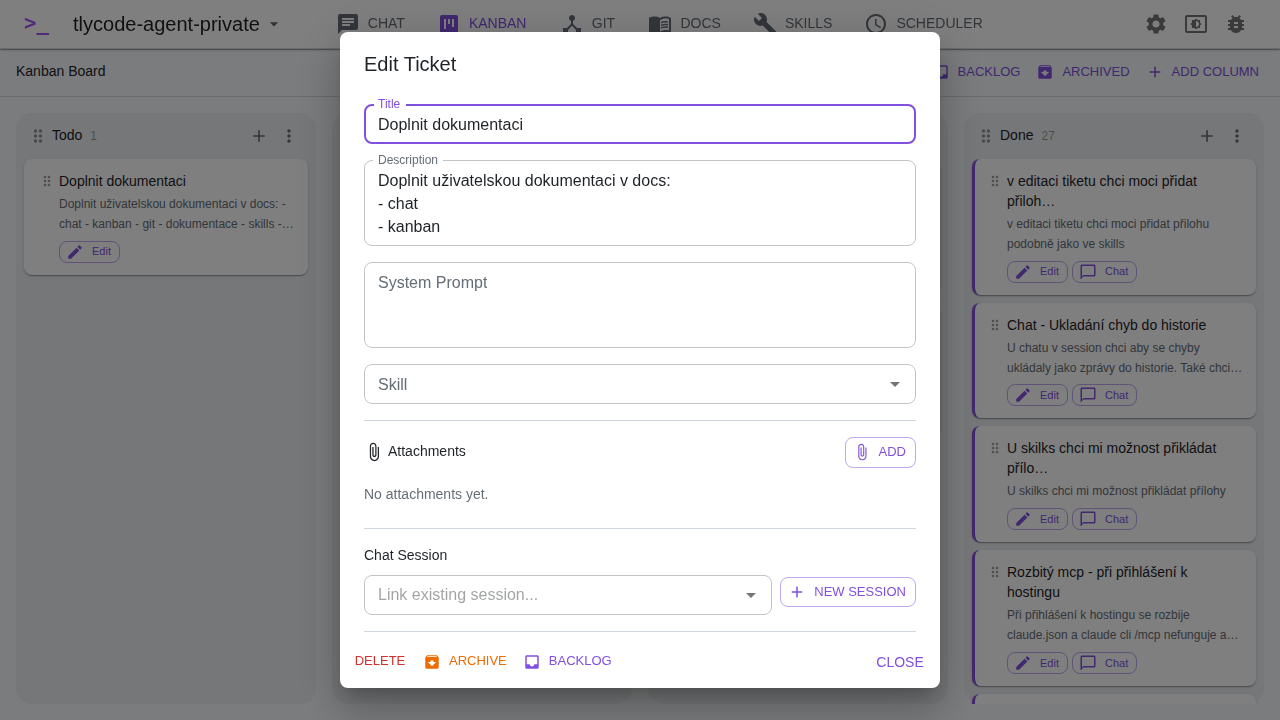
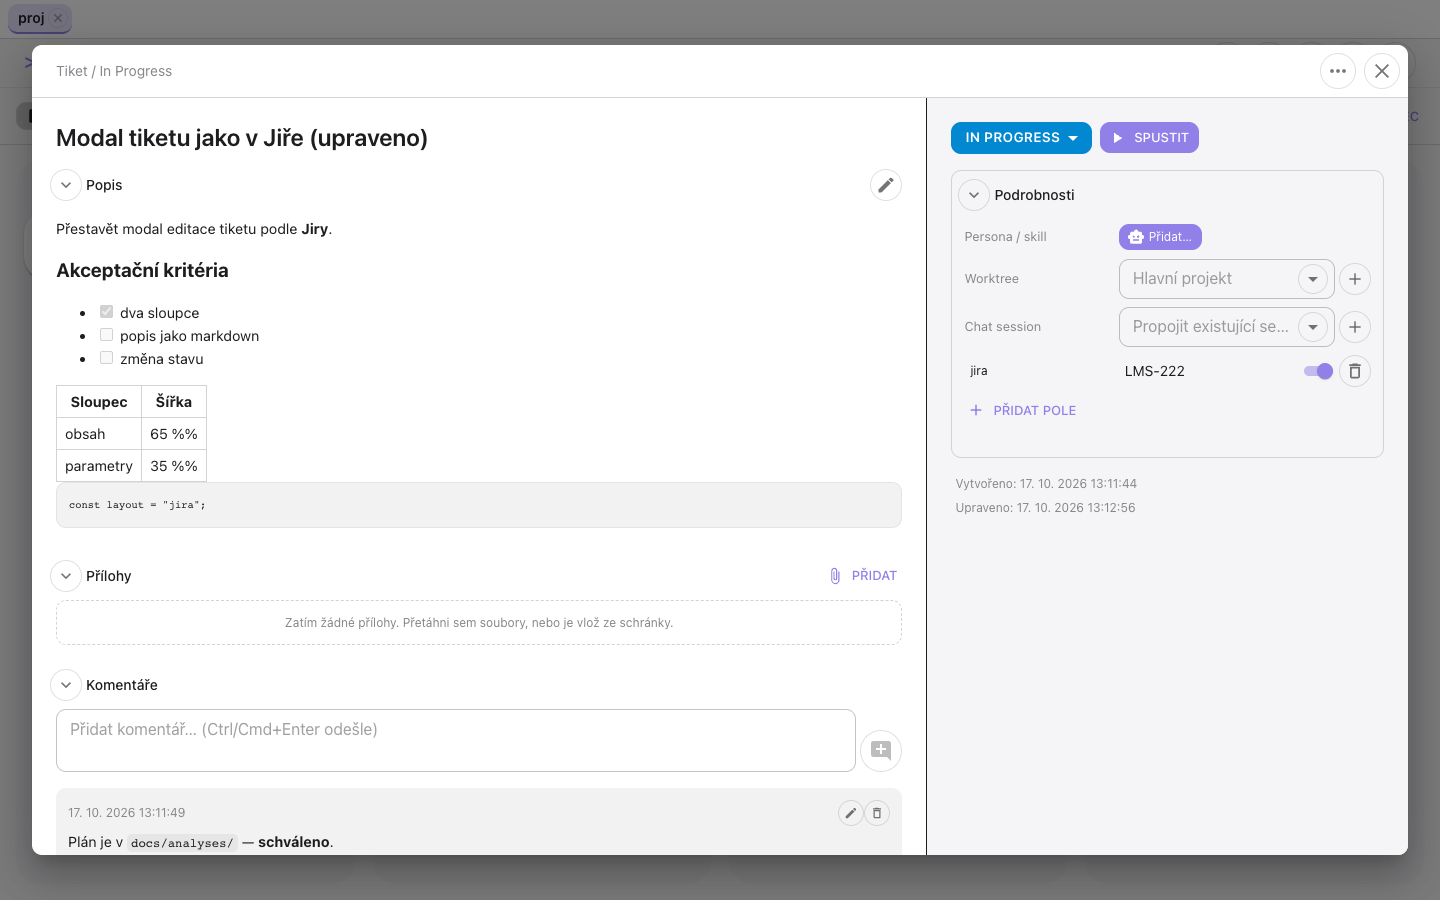
docs: sync user-docs from main

diff --git a/user-docs/kanban.md b/user-docs/kanban.md
@@ -4,6 +4,35 @@ The Kanban board helps you track tasks and organize your work.
 
 ![Kanban Board](./images/kanban-view.png)
 
+## Boards
+
+A project can have several boards — say one for features, one for bugs and one
+for the cloud edition. Each board has its own columns and tickets, its own
+**archive**, its own **flows** and its own **agent profile**. The **backlog** is
+shared by all boards of the project.
+
+- Pick the board in the selector at the left of the board toolbar. The last
+  board you looked at is remembered per project.
+- The ⋮ next to the selector creates a board (with the default columns, or with
+  the same column titles as the current board), renames it, moves it left or
+  right, or deletes it.
+- A board can only be deleted once it is empty — no tickets on it, in its
+  archive or in the backlog — and while none of its flows is running. The
+  project's last board cannot be deleted.
+- The first board in the list is the **default board**. Agents and integrations
+  that do not name a board work with it.
+
+Search looks through the board on screen.
+
+### Moving a ticket to another board
+
+On a card, open the move menu and choose **Move to board…**; in the ticket
+dialog it is in the ⋯ menu. Pick the board and the column. The ticket keeps its
+chat, comments, attachments and worktree. It leaves the flows of its old board;
+while a flow is working on it, the move is refused — wait for the turn to end
+or stop the flow. The target column's prompt runs with the **target** board's
+agent profile.
+
 ## Columns
 
 By default, three columns are created: **To Do**, **In Progress**, **Done**.
@@ -48,20 +77,44 @@ for instance) and writes that order onto the board.
 
 ![Ticket Dialog](./images/kanban-ticket-dialog.png)
 
-The ticket dialog lets you edit all ticket properties:
+The ticket dialog is laid out like a Jira issue: the ticket's content on the
+left, its status and parameters on the right. Changes save on their own — there
+is no Save button; whatever is still being typed is saved when the dialog
+closes.
 
-- **Title** — the ticket name
-- **Description** — detailed description of the task (markdown supported)
-- **System Prompt** — a custom system prompt that will be sent to Claude when running this ticket
-- **Skill** — attach a skill to use as context when running the ticket
-- **Custom fields** — metadata on the ticket, e.g. a Jira ticket number. Two kinds sit side by side:
-  - fields the project defines for every ticket (the `ticket_fields` project setting, see [Settings](./settings.md#kanban)), listed with their configured name; whether they reach the card is the project's switch
-  - fields you add here with **Add field**, which belong to this ticket alone: type a name and a value, flip the switch to put it on the card, and remove it again with the bin. The name is the field's identity, so renaming it carries the value along. After a save they are listed alphabetically by name.
+**Header** — the column the ticket is in, the **⋯** menu (*Move to backlog*,
+*Archive*, *Delete* — deleting asks for confirmation) and **✕** to close.
 
-  Fields computed from the linked session (see *Session chips* below) are not listed here — there is nothing to type in.
-- **Attachments** — upload file attachments to the ticket (stored as base64)
-- **Chat Session** — link to an existing chat session or create a new one
-- **Comments** — add comments to the ticket for discussion or notes
+**Left column** (scrolls on its own):
+
+- **Title** — shown as a heading; click it to edit, Enter confirms, Escape restores it.
+- **Description** — rendered as markdown, the same way the chat renders it (tables, code, mermaid diagrams). Click the text or the pencil to edit the raw markdown; **Done**, Escape or clicking away goes back to the preview.
+- **Attachments** — **Add** picks files; you can also drop files anywhere on the left column or paste them (e.g. a screenshot) from the clipboard.
+- **Comments** — at the very bottom: a box for a new comment (Ctrl/Cmd+Enter sends), then the comments, newest first, rendered as markdown.
+
+**Right column:**
+
+- **Status** — the ticket's column as a coloured dropdown (grey for the first column, green for the last, blue in between). Picking another column moves the ticket there, with the same column prompt as a move on the board. While the agent is responding in the linked session the move is refused.
+- **Run** — starts the ticket in a new chat session and opens it, see *Running a Ticket*.
+- **Open chat** — opens the linked chat session.
+- **Details** (collapsible; the dialog remembers whether it is collapsed) — one `label | value` row per parameter; an empty value shows a grey *Add…*, click it to fill it in:
+  - **Persona / skill** — attach a persona or a skill to use as context when running the ticket
+  - **Worktree** — the git worktree the ticket's session works in; **+** creates a new one
+  - **Chat session** — the linked session, or link an existing one / **+** create a new one
+  - **Custom fields** — metadata on the ticket, e.g. a Jira ticket number. Two kinds sit side by side:
+    - fields the project defines for every ticket (the `ticket_fields` project setting, see [Settings](./settings.md#kanban)), listed with their configured name; whether they reach the card is the project's switch
+    - fields you add here with **Add field**, which belong to this ticket alone: click the name and the value to fill them in, flip the switch to put it on the card, and remove it again with the bin. The name is the field's identity, so renaming it carries the value along. After a save they are listed alphabetically by name.
+
+    Fields computed from the linked session (see *Session chips* below) are not listed here — there is nothing to type in.
+- Below the panel: when the ticket was created and last updated, and whether it is in the backlog, archived, or has a worktree a flow created for it.
+
+On a narrow window the right column moves under the content and the whole
+dialog scrolls as one.
+
+**New ticket** — the same layout with the title and description open for
+typing. Attachments, comments and the chat session appear once the ticket
+exists. The status picks the column the ticket is created in. **Create** (or
+Ctrl/Cmd+Enter) creates it.
 
 ### Session chips
 
@@ -74,7 +127,7 @@ Both are off until the project defines a ticket field whose source is the sessio
 
 ### Running a Ticket
 
-When a ticket has a description, system prompt, or skill, you can run it directly — this creates a new chat session with the ticket's context and sends the description as a prompt to Claude.
+When a ticket has a description or system prompt, you can run it directly — **Run** in the ticket dialog (or the `run_ticket` MCP tool) creates a new chat session linked to the ticket, sends the description as the first prompt with the ticket's persona or skill, and opens the chat. Run is off while the agent is responding in the ticket's linked session.
 
 ## Search
 
@@ -109,9 +162,13 @@ card at the top of the column you choose.
 
 Click the **Backlog** button to manage tickets that aren't on the board yet. Backlog supports search and pagination. Tickets can be moved between backlog and the board.
 
+The backlog is shared by every board of the project: it lists the backlog tickets of all of them, each with its board and column. **Move to board** asks which board and column the ticket goes to (with a single board it goes straight back to the column it came from).
+
 ## Archive
 
 Click **Archived** to view and restore archived tickets. Archive also supports search and pagination. When a ticket is archived, its linked chat session is also archived.
+
+The archive belongs to the board: it shows the archived tickets of the board on screen, and restoring puts a ticket back into the column it came from.
 
 ## Bulk actions
 
@@ -144,7 +201,7 @@ ticket does (see [Flow Manager](#flow-manager)).
 ## Flow Manager
 
 Click **Flow manager** on the board toolbar to run a batch of tickets in a
-planned order.
+planned order. Flows belong to the board on screen and take only its tickets.
 
 A **flow** is a list of named **steps**. Drag tickets from the board panel into
 a step, reorder them inside it, or drag them to another step. Steps run in
@@ -263,7 +320,16 @@ An **agent profile** is a named set of prompts: the first-message prompt, the
 prompt appended to every message, the prompt that runs before a session is
 deleted, and a prompt per board column. Pick one from the selector at the top
 and its values are written into the project's settings, so the whole project
-switches at once. The built-in **Default** profile is read only; make your own
+switches at once.
+
+Each board can also run under a profile of its own. The **Profile of board …**
+selector above the profile picks it: **Same as the project** (the default)
+keeps the board on the project's profile; picking a profile makes the board's
+tickets — their column prompts, first message, appended prompt and the prompt
+before deleting their chat — use that profile instead. While a board has its
+own profile, the edits on this screen change that profile only and leave the
+project's settings alone. A flow step with a profile still wins over the
+board's. The built-in **Default** profile is read only; make your own
 with **+** and delete it with the bin.
 
 Profiles belong to the project. The selector lists only this project's

diff --git a/user-docs/mcp-server.md b/user-docs/mcp-server.md
@@ -66,7 +66,7 @@ Each request must include the `X-Project-Path` header so the server knows which 
 | `create_kanban_flow` | Create an empty flow |
 | `update_kanban_flow` | Rename a flow, or change its description / stop-on-error |
 | `delete_kanban_flow` | Delete a flow (refused while it runs) |
-| `create_flow_step` | Add a step (sequential/parallel, own/shared session, worktree per ticket, the column that finishes a ticket, pause after the step) |
+| `create_flow_step` | Add a step (sequential/parallel, own/shared session, the column that finishes a ticket, pause after the step) |
 | `update_flow_step` | Rename a step or change how it runs (while the flow runs, only a step it has not got to yet) |
 | `delete_flow_step` | Delete a step (while the flow runs, only a step it has not got to yet) |
 | `reorder_flow_steps` | Set the order the steps run in (while the flow runs, running and finished steps keep their places) |
@@ -80,11 +80,10 @@ Each request must include the `X-Project-Path` header so the server knows which 
 
 The update tools are partial: only the fields you pass change.
 
-A step has two settings beyond its order and modes. `use_worktree` gives each
-of its tickets a `flow/<slug>` branch and a worktree of its own before the
-first prompt, and takes the worktree away again when the ticket reaches the
-Done column (one with uncommitted changes is left alone); it needs per-ticket
-sessions. `done_column` names the board column a ticket has to reach before the
+A step makes no worktrees: each ticket runs in the directory set on the ticket
+(its worktree, or the main project). Giving a ticket a worktree of its own is
+the job of the agent profile's skills. Beyond its order and modes, a step has
+these settings. `done_column` names the board column a ticket has to reach before the
 step counts it as finished — for boards whose columns send prompts of their
 own, where the first agent run is only the opening move. `pause_after` stops
 the run once the step is done instead of starting the next one — the way to try
